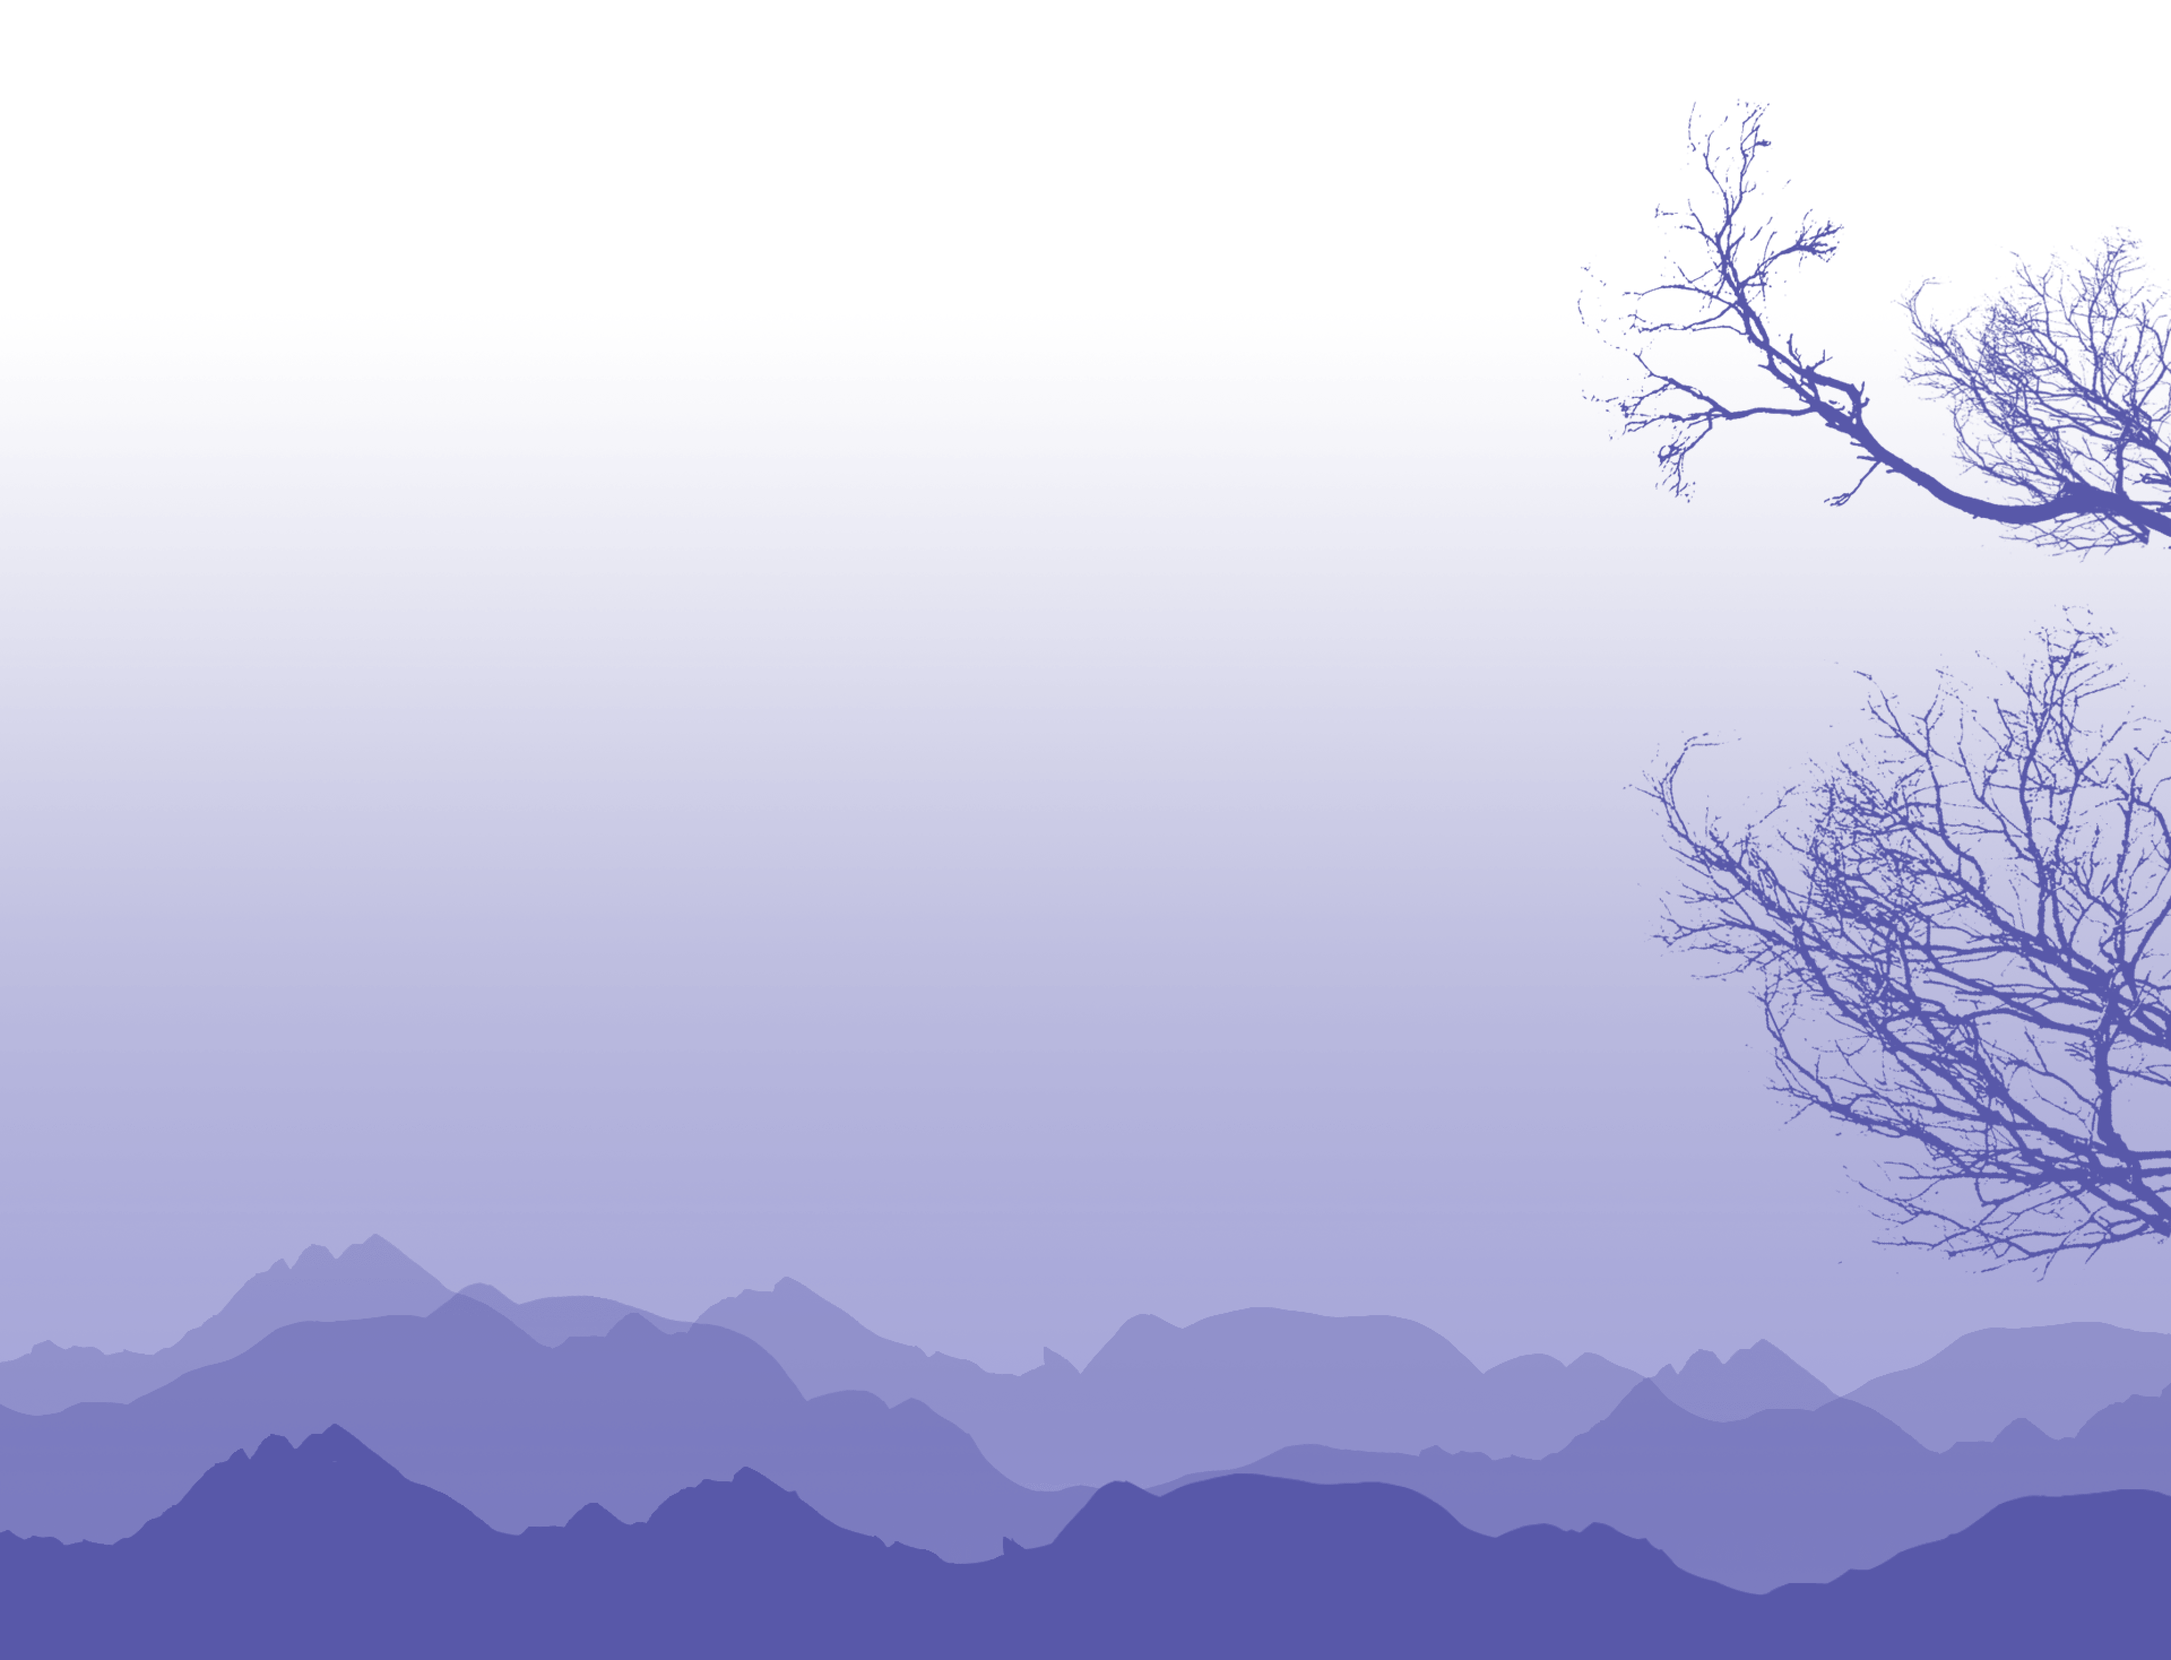
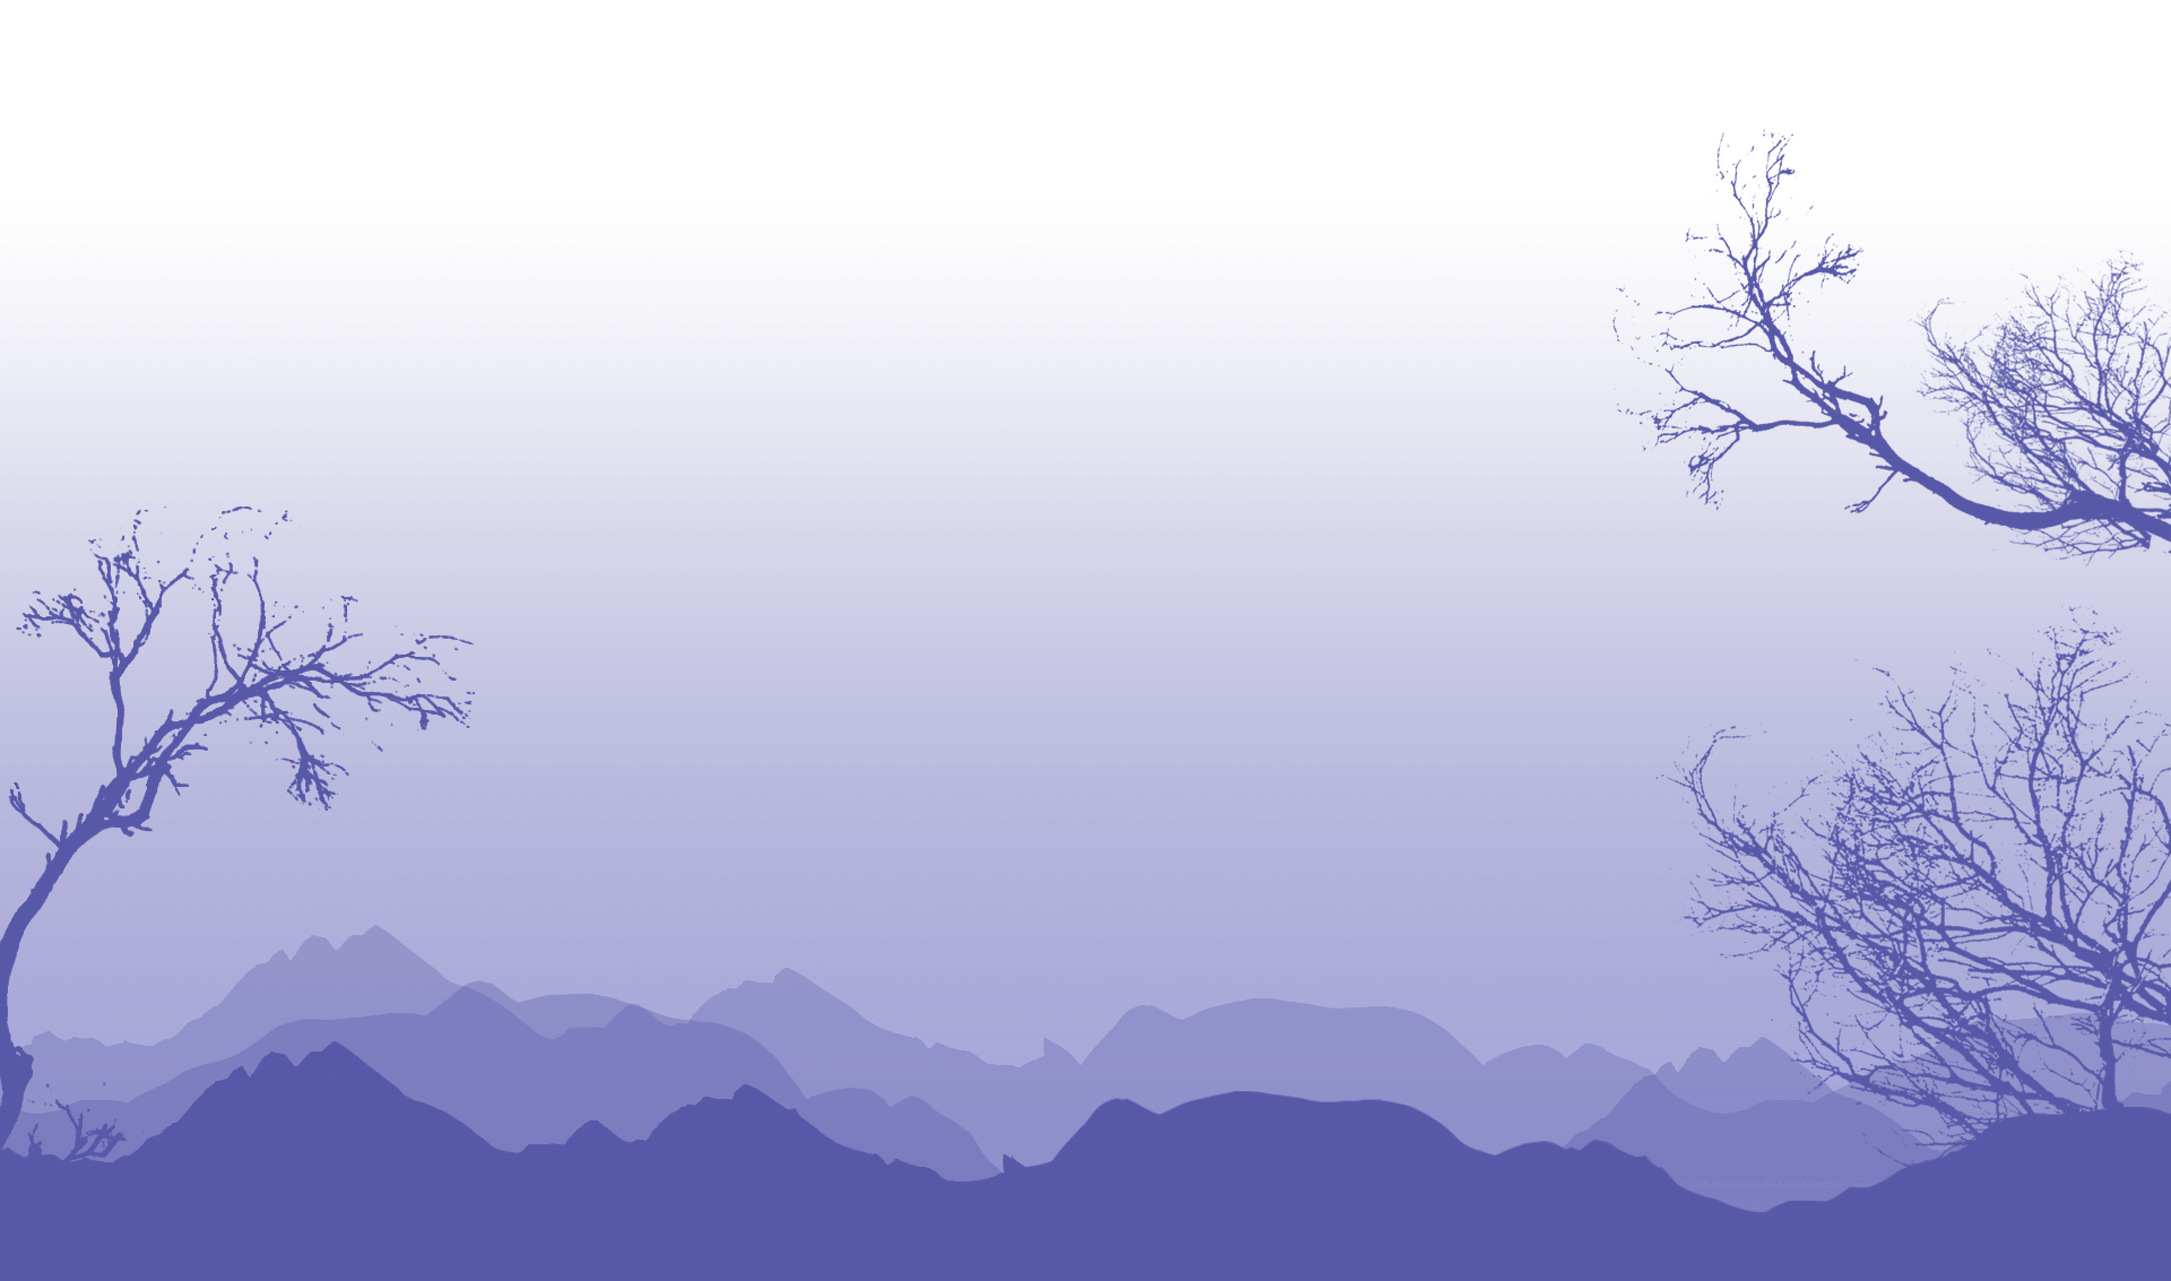
updated zth pages

Changed region(s): [[0.75, 0.0618, 1.0, 0.9267], [0.0, 0.4325, 0.875, 0.9576], [0.25, 0.7723, 0.2812, 0.8032]]

diff --git a/src/pages/ZeroToHero/components/MultiTextArea/MultiTextArea.js b/src/pages/ZeroToHero/components/MultiTextArea/MultiTextArea.js
@@ -6,20 +6,21 @@ import InformationTooltip from "../../../../components/Tooltip/Tooltip";
 
 import {isMainKeywordValid} from './isMainKeywordValid';
 
-const MultiTextArea = ({onChange, max = 999999, value, toMark, productName}) => {
+const MultiTextArea = ({onChange, max = 999999, value, toMark = false, productName, unique = false}) => {
     const [inputValue, setInputValue] = useState(null);
 
     const inputEl = useRef(null);
 
     const addKeywordHandler = ({target}) => {
-        if (target.value !== '') {
+        if (target.value !== '' && unique && !value.includes(target.value)) {
             if (value == null) {
                 onChange([target.value]);
             } else {
                 onChange([...value, target.value]);
             }
-            setInputValue(null);
         }
+
+        setInputValue(null);
     };
 
     const removeKeywordHandler = (index) => {
@@ -31,10 +32,15 @@ const MultiTextArea = ({onChange, max = 999999, value, toMark, productName}) => 
              onClick={() => (!value || value.length < max) && inputEl.current.focus()}>
             <div className="list">
                 {value && value.map((item, index) => {
-                    if (isMainKeywordValid(item, productName)) {
+                    if (toMark && !isMainKeywordValid(item, productName)) {
                         return (
                             <div className={'item-text'}>
                                 {item}
+
+                                <InformationTooltip type={'custom'}
+                                                    description={'Looks like this is a long tail keyword or it’s not present in your title. Please make sure you enter a keyword that customers use to describe your product in general.'}>
+                                    <SVG id={'warning-icon'}/>
+                                </InformationTooltip>
 
                                 <i onClick={() => removeKeywordHandler(index)}>
                                     <SVG id={'remove-filter-icon'}/>
@@ -45,10 +51,6 @@ const MultiTextArea = ({onChange, max = 999999, value, toMark, productName}) => 
                         return (
                             <div className={'item-text'}>
                                 {item}
-
-                                <InformationTooltip type={'custom'} description={'Looks like this is a long tail keyword or it’s not present in your title. Please make sure you enter a keyword that customers use to describe your product in general.'}>
-                                    <SVG id={'warning-icon'}/>
-                                </InformationTooltip>
 
                                 <i onClick={() => removeKeywordHandler(index)}>
                                     <SVG id={'remove-filter-icon'}/>

diff --git a/src/pages/ZeroToHero/Settings/ProductsList.js b/src/pages/ZeroToHero/Settings/ProductsList.js
@@ -160,10 +160,6 @@ const ProductsList = ({productsList, selectedTab, paginationOptions, processing,
                 },
                 {
                     minWidth: '200px',
-                    render: (props) => ('')
-                },
-                {
-                    minWidth: '200px',
                     render: (props, product) => (<div className="optimization-field">
                         {product.under_optimization ? <span>Running</span> :
                             <button className='btn default' onClick={goOptimizationPage}>Automate</button>}
@@ -172,6 +168,10 @@ const ProductsList = ({productsList, selectedTab, paginationOptions, processing,
                 {
                     minWidth: '150px',
                     render: () => <span>SP</span>
+                },
+                {
+                    minWidth: '200px',
+                    render: (props) => ('')
                 },
             ],
             'other-products': [
@@ -284,13 +284,6 @@ const ProductsList = ({productsList, selectedTab, paginationOptions, processing,
                 render: (status, item) => (jobStatus(item))
             },
             {
-                title: 'Issues',
-                dataIndex: 'problems',
-                key: 'problems',
-                minWidth: '200px',
-                render: (status, item) => (jobIssues(item))
-            },
-            {
                 title: 'PPC Automate Status',
                 dataIndex: 'under_optimization',
                 key: 'under_optimization',
@@ -308,6 +301,13 @@ const ProductsList = ({productsList, selectedTab, paginationOptions, processing,
                 key: 'campaign_type',
                 minWidth: '150px',
                 render: () => <span>SP</span>
+            },
+            {
+                title: 'Issues',
+                dataIndex: 'problems',
+                key: 'problems',
+                minWidth: '200px',
+                render: (status, item) => (jobIssues(item))
             },
         ],
         'other-products': [

diff --git a/src/pages/ZeroToHero/CreatingCampaign/ProductSettings/NegativeKeywords/NegativeKeywords.js b/src/pages/ZeroToHero/CreatingCampaign/ProductSettings/NegativeKeywords/NegativeKeywords.js
@@ -3,7 +3,7 @@ import {SVG} from "../../../../../utils/icons";
 import {Radio} from "antd";
 
 import './NegativeKeywords.less';
-import {unique} from "../../../../../utils/unique";
+import {unique, uniqueArrOfObj} from "../../../../../utils/unique";
 
 const NegativeKeywords = ({keywords, onUpdate}) => {
     const [newKeyword, setNewKeyword] = useState(''),
@@ -27,6 +27,7 @@ const NegativeKeywords = ({keywords, onUpdate}) => {
             }))
         ];
 
+        // onUpdate({negative_keywords: [...uniqueArrOfObj([...keywords, ...validKeywords], 'text')]});
         onUpdate({negative_keywords: [...keywords, ...validKeywords]});
 
         setKeywordsCount(newKeyword.split('\n').filter(item => item !== '').length);
@@ -85,7 +86,8 @@ const NegativeKeywords = ({keywords, onUpdate}) => {
                         <div className="actions">
                             <div
                                 className={`added-description ${validKeywordsCount !== keywordsCount ? 'visible' : ''}`}>
-                                Some of the keywords were not added because they exceeded the maximum amount of words in it or 80 characters.
+                                Some of the keywords were not added because they exceeded the maximum amount of words in
+                                it or 80 characters.
                             </div>
 
                             <button className={'btn default p15'}>

diff --git a/src/pages/LandingPages/ZTH/ZTH.js b/src/pages/LandingPages/ZTH/ZTH.js
@@ -13,6 +13,7 @@ import ppcStructure from '../../../assets/img/landing-zth/ppc-structure.svg'
 import zthStructure from '../../../assets/img/landing-zth/zth-structure.png'
 import expertImage from '../../../assets/img/landing-zth/expert-image.png'
 import caseImage from '../../../assets/img/landing-zth/cases-image.png'
+import kingOnTronImage from '../../../assets/img/landing-zth/king-on-tron.png'
 import x10SuccessImage from '../../../assets/img/landing-zth/x10-success.svg'
 import skuIcon from '../../../assets/img/landing-zth/100sku.svg'
 import agencyIcon from '../../../assets/img/landing-zth/agency-icon.svg'
@@ -250,6 +251,8 @@ const ZTHLanding = () => {
                 <img src={caseImage} alt=""/>
 
                 <OurCases/>
+
+                <img src={kingOnTronImage} alt="" className={'king-on-tron'}/>
             </section>
 
             <section className="plans">
@@ -401,7 +404,7 @@ const ZTHLanding = () => {
 
                         <div className={'plan'}>
                             <div className="counts">
-                                {[1, 2, 4].map(item => (
+                                {[1, 2, 3, 4].map(item => (
                                     <div style={{width: `${8 + item * 3}px`, height: `${8 + item * 3}px`}}
                                          className="count"/>
                                 ))}

diff --git a/src/pages/ZeroToHero/CreatingCampaign/ProductSettings/RelevantKeywords/RelevantKeywords.js b/src/pages/ZeroToHero/CreatingCampaign/ProductSettings/RelevantKeywords/RelevantKeywords.js
@@ -20,7 +20,8 @@ const RelevantKeywords = ({keywords, onUpdate}) => {
             .filter(item => item.match(/\b\w+\b/g).length <= 10)
         ];
 
-        onUpdate({relevant_keywords: [...keywords, ...validKeywords]});
+
+        onUpdate({relevant_keywords: [...new Set([...keywords, ...validKeywords])]});
 
         setKeywordsCount(newKeyword.split('\n').filter(item => item !== '').length);
         setValidKeywordsCount(validKeywords.length);
@@ -61,8 +62,10 @@ const RelevantKeywords = ({keywords, onUpdate}) => {
                         </div>
 
                         <div className="actions">
-                             <div className={`added-description ${validKeywordsCount !== keywordsCount ? 'visible' : ''}`}>
-                                 Some of the keywords were not added because they exceeded the maximum amount of words in it or 80 characters.
+                            <div
+                                className={`added-description ${validKeywordsCount !== keywordsCount ? 'visible' : ''}`}>
+                                Some of the keywords were not added because they exceeded the maximum amount of words in
+                                it or 80 characters.
                             </div>
 
                             <button className={'btn default p15'}>

diff --git a/src/components/ModalWindow/InformationWindows/ReportsChangesCountWindow.js b/src/components/ModalWindow/InformationWindows/ReportsChangesCountWindow.js
@@ -19,7 +19,12 @@ const ReportsChangesCountWindow = () => {
         switchWindow(false);
         setCount(0);
         dispatch(userActions.resetChangesCount('ppc_optimization'));
-        history.push('/ppc/report');
+
+        if (window.location.pathname === '/ppc/report') {
+            window.location.reload()
+        } else {
+            history.push('/ppc/report');
+        }
     }
 
     function handleCancel() {
@@ -47,7 +52,7 @@ const ReportsChangesCountWindow = () => {
             {/*<img src={whales} alt=""/>*/}
             <h3>Yay!</h3>
             While you were away the software <br/> performed: <b>{changesCount}</b> <span>changes</span>
-             {/*{moment.duration(changesDate, "days").humanize()}*/}
+            {/*{moment.duration(changesDate, "days").humanize()}*/}
         </ModalWindow>
     )
 };

diff --git a/src/pages/LandingPages/ZTH/ZTH.less b/src/pages/LandingPages/ZTH/ZTH.less
@@ -83,7 +83,7 @@
   }
 
   .dragon-section {
-    height: 100em;
+    height: 1100px;
     background: url("../../../assets/img/landing-zth/dragon-bg.png") no-repeat center center;
     -webkit-background-size: cover;
     -moz-background-size: cover;
@@ -99,6 +99,7 @@
 
     .col {
       z-index: 100;
+      padding: 15% 0 0 0;
     }
 
     h2 {
@@ -114,12 +115,12 @@
     }
 
     img {
-      width: 70%;
+      width: 55%;
       position: absolute;
-      top: -30px;
-      left: 0;
+      top: 80px;
+      bottom: 0;
+      left: 30%;
       right: 0;
-      margin: 0 0 0 20%;
     }
   }
 
@@ -437,6 +438,13 @@
 
     img {
       width: 100%;
+    }
+
+    .king-on-tron {
+      max-width: 370px;
+      position: absolute;
+      left: 200px;
+      bottom: 100px;
     }
 
     .our-cases {

diff --git a/src/pages/ZeroToHero/Marketing/Marketing.js b/src/pages/ZeroToHero/Marketing/Marketing.js
@@ -35,10 +35,10 @@ const Marketing = () => {
                 <div className="row">
                     <div className="col">
                         <h3>Here is the PPC campaigns structure we create:</h3>
-                        <p>
-                            To learn more about Zero to Hero structure
-                            <Link to={''} target={'_blank'}>watch these video</Link>
-                        </p>
+                        {/*<p>*/}
+                        {/*    To learn more about Zero to Hero structure*/}
+                        {/*    <Link to={''} target={'_blank'}>watch these video</Link>*/}
+                        {/*</p>*/}
 
                         <div className="image">
                             <img src={ppcStructureImage} alt=""/>

diff --git a/src/pages/ZeroToHero/CreatingCampaign/ProductSettings/SetupSetting/SetupSetting.js b/src/pages/ZeroToHero/CreatingCampaign/ProductSettings/SetupSetting/SetupSetting.js
@@ -86,6 +86,7 @@ const SetupSetting = ({
                             max={5}
                             toMark={true}
                             productName={selectedProductName}
+                            unique={true}
                         />
                     </div>
 
@@ -270,6 +271,7 @@ const SetupSetting = ({
                         <h3>Enter Your Competitors Brands Names</h3>
 
                         <MultiTextArea
+                            unique={true}
                             value={brand.competitor_brand_names}
                             onChange={(competitor_brand_names) => changeBrandHandler({competitor_brand_names}, invalidField === 'brandCompetitorsNames')}
                         />

diff --git a/src/pages/ZeroToHero/components/HasIncompleteBatch/HasIncompleteBatch.js b/src/pages/ZeroToHero/components/HasIncompleteBatch/HasIncompleteBatch.js
@@ -50,6 +50,10 @@ const HasIncompleteBatch = ({visible = false, onChange}) => {
         setDeleteProcessing(false);
     };
 
+    const handleCancel = () => {
+        history.push('/zero-to-hero/settings')
+    };
+
     const goToPaymentPage = () => {
         history.push(`/zero-to-hero/payment/${incompleteBatch.batch_id}`)
     };
@@ -61,6 +65,7 @@ const HasIncompleteBatch = ({visible = false, onChange}) => {
                 // visible={true}
                 className={'has-incomplete-batch-window'}
                 footer={false}
+                handleCancel={handleCancel}
             >
                 <h2>
                     Attention!

diff --git a/src/pages/ZeroToHero/CreatingCampaign/SelectProduct/AllProducts.js b/src/pages/ZeroToHero/CreatingCampaign/SelectProduct/AllProducts.js
@@ -121,7 +121,7 @@ const AllProducts = () => {
                 <h3>
                     Select Products
 
-                    {availableTokens && <span className="free-tokens">
+                    {availableTokens > 0 && <span className="free-tokens">
                         Free tokens: {availableTokens}
                     </span>}
                 </h3>

diff --git a/src/reducers/zth.reducer.js b/src/reducers/zth.reducer.js
@@ -113,7 +113,7 @@ export function zth(state = initialState, action) {
             return {
                 ...state,
                 paidBatch: action.payload,
-                productAmount: action.payload.available_tokens
+                productAmount: action.payload.available_tokens === 0 ? 1 : action.payload.available_tokens
             };
 
 
